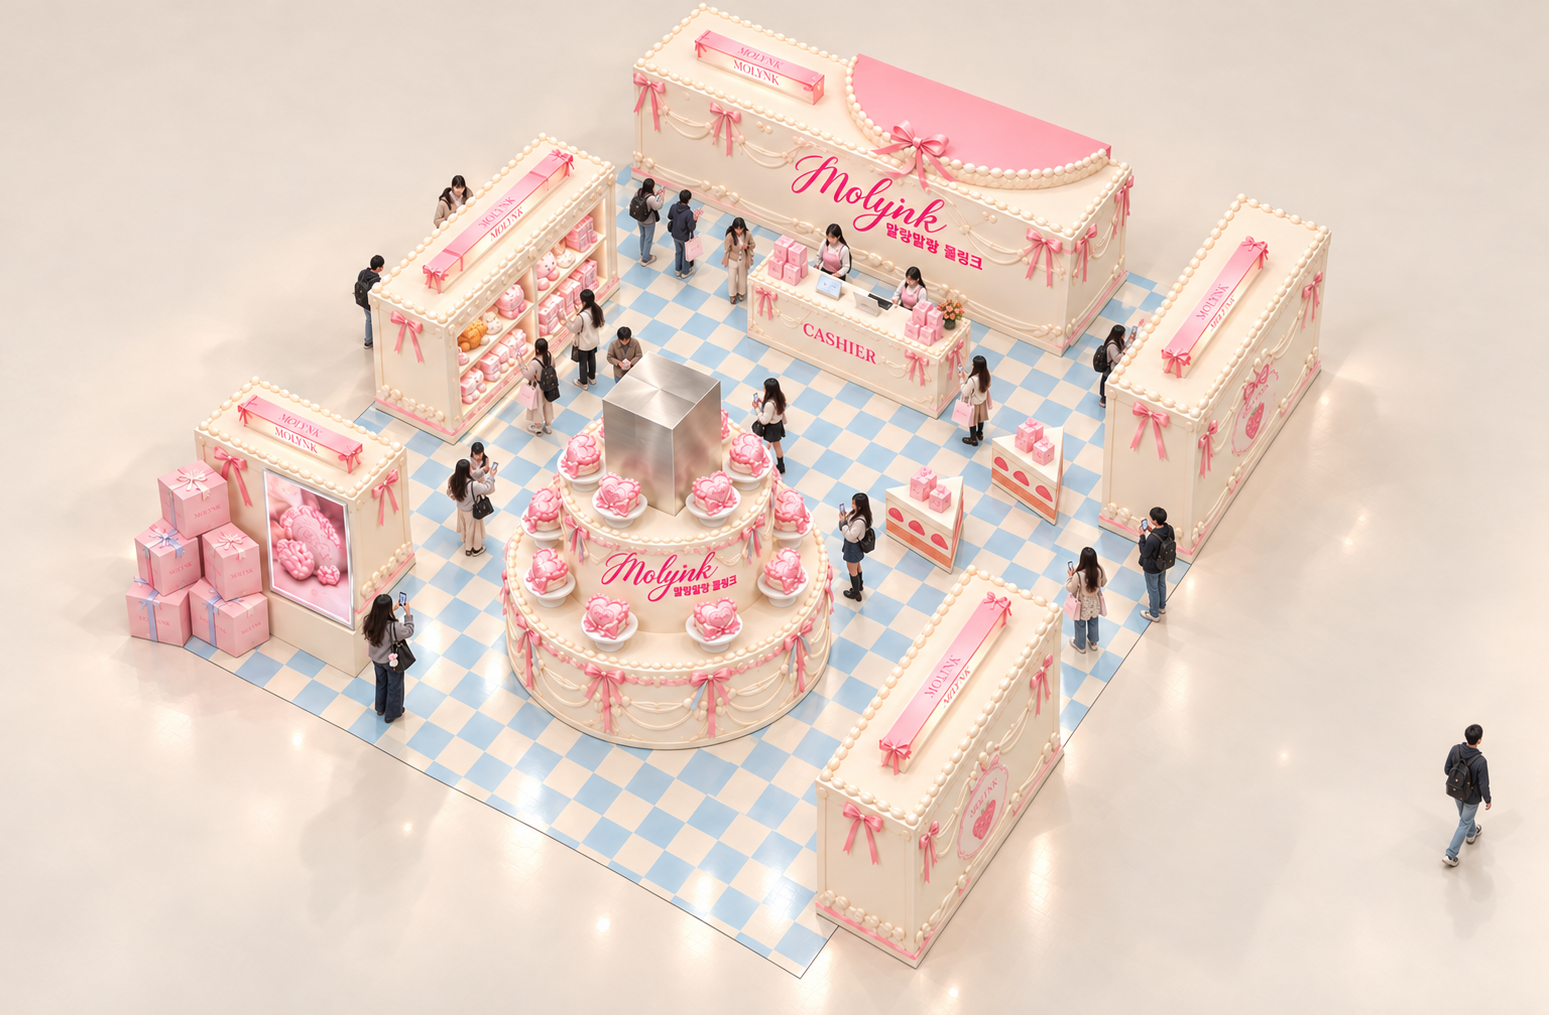
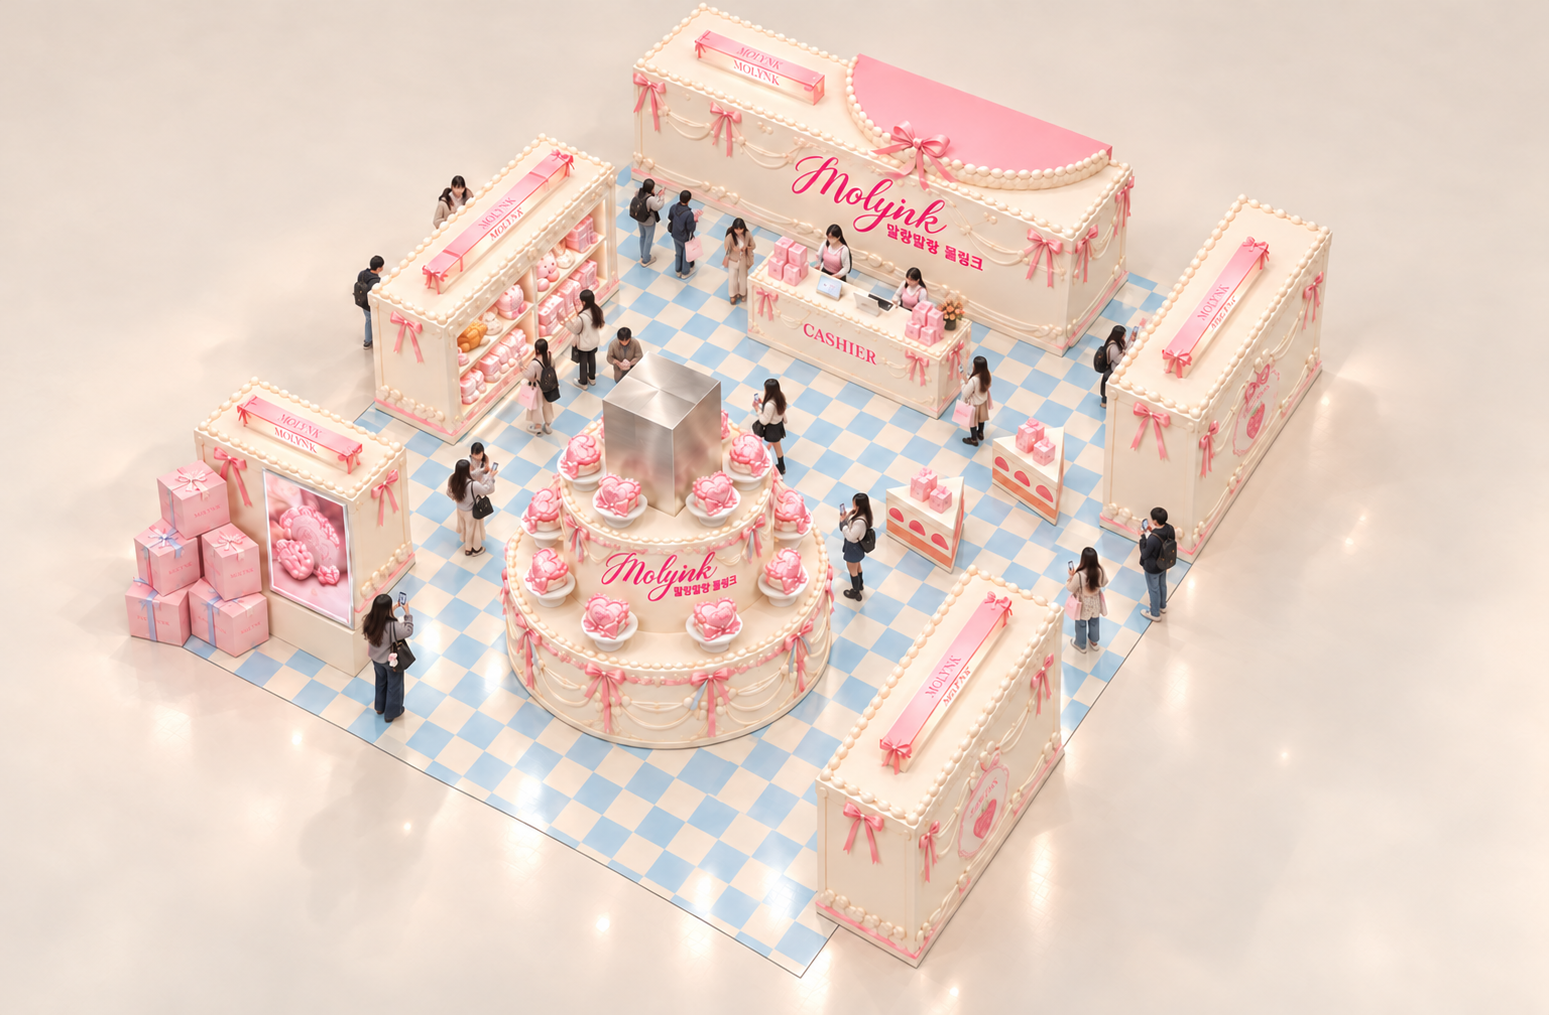
Replace bird-view image with latest supplied rendering

diff --git a/index.html b/index.html
@@ -296,7 +296,7 @@
 </section>
 <section class="section space" id="space">
  <h2 class="serif reveal">영상으로 만나던 몰링크를<br>직접 경험하시고,</h2>
- <figure class="space-window reveal"><img src="space-overview.png?v=2" alt="하늘색 체크 바닥과 중앙 케이크 매대, 핑크 진열장과 계산대가 보이는 몰링크 팝업 공간 조감도" width="1549" height="1015" loading="lazy"></figure><p class="space-caption">MOLYNK POP-UP · 공간 조감 이미지</p>
+ <figure class="space-window reveal"><img src="space-overview.png?v=3" alt="하늘색 체크 바닥과 중앙 케이크 매대, 핑크 진열장과 계산대가 보이는 몰링크 팝업 공간 조감도" width="1549" height="1015" loading="lazy"></figure><p class="space-caption">MOLYNK POP-UP · 공간 조감 이미지</p>
  <p class="copy reveal">취향에 가장 가까운 말랑함을 발견해 주세요.</p>
  <figure class="space-atmosphere reveal"><img src="space-atmosphere.png" alt="중앙의 대형 케이크 매대와 관람객이 함께 있는 몰링크 팝업 공간 연출" loading="lazy"><figcaption>MOLYNK POP-UP · 공간 연출 이미지</figcaption></figure>
 
